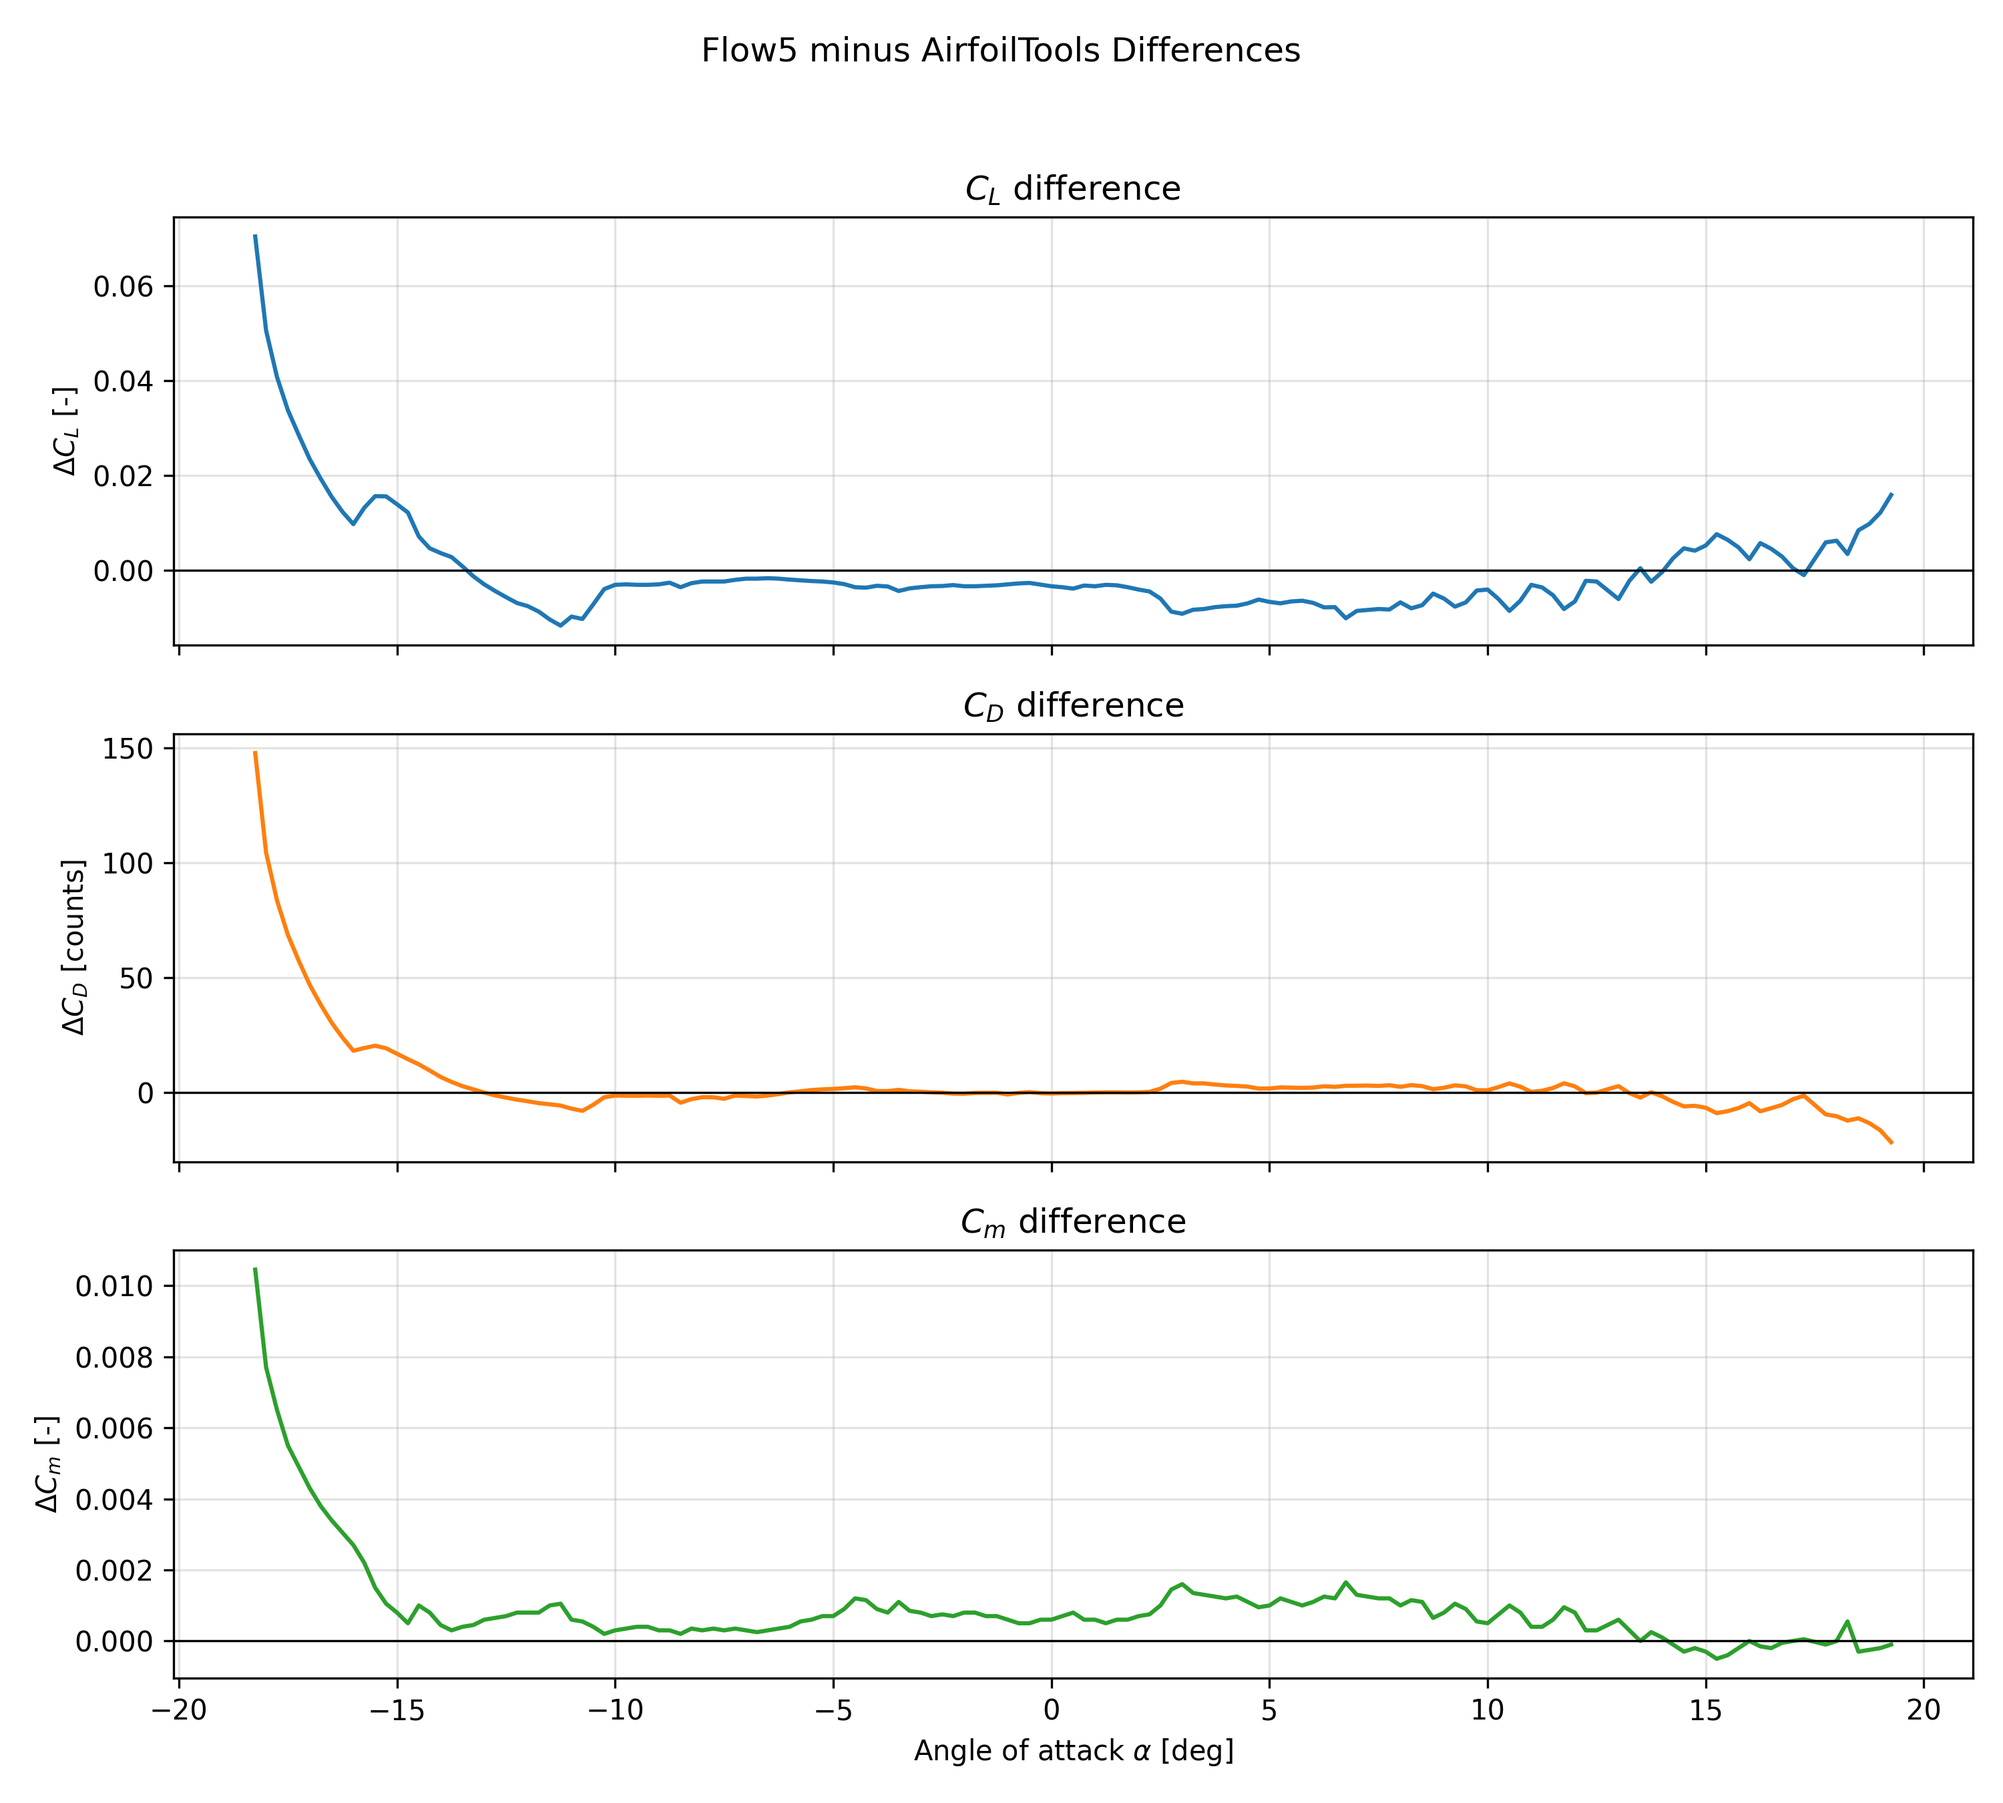
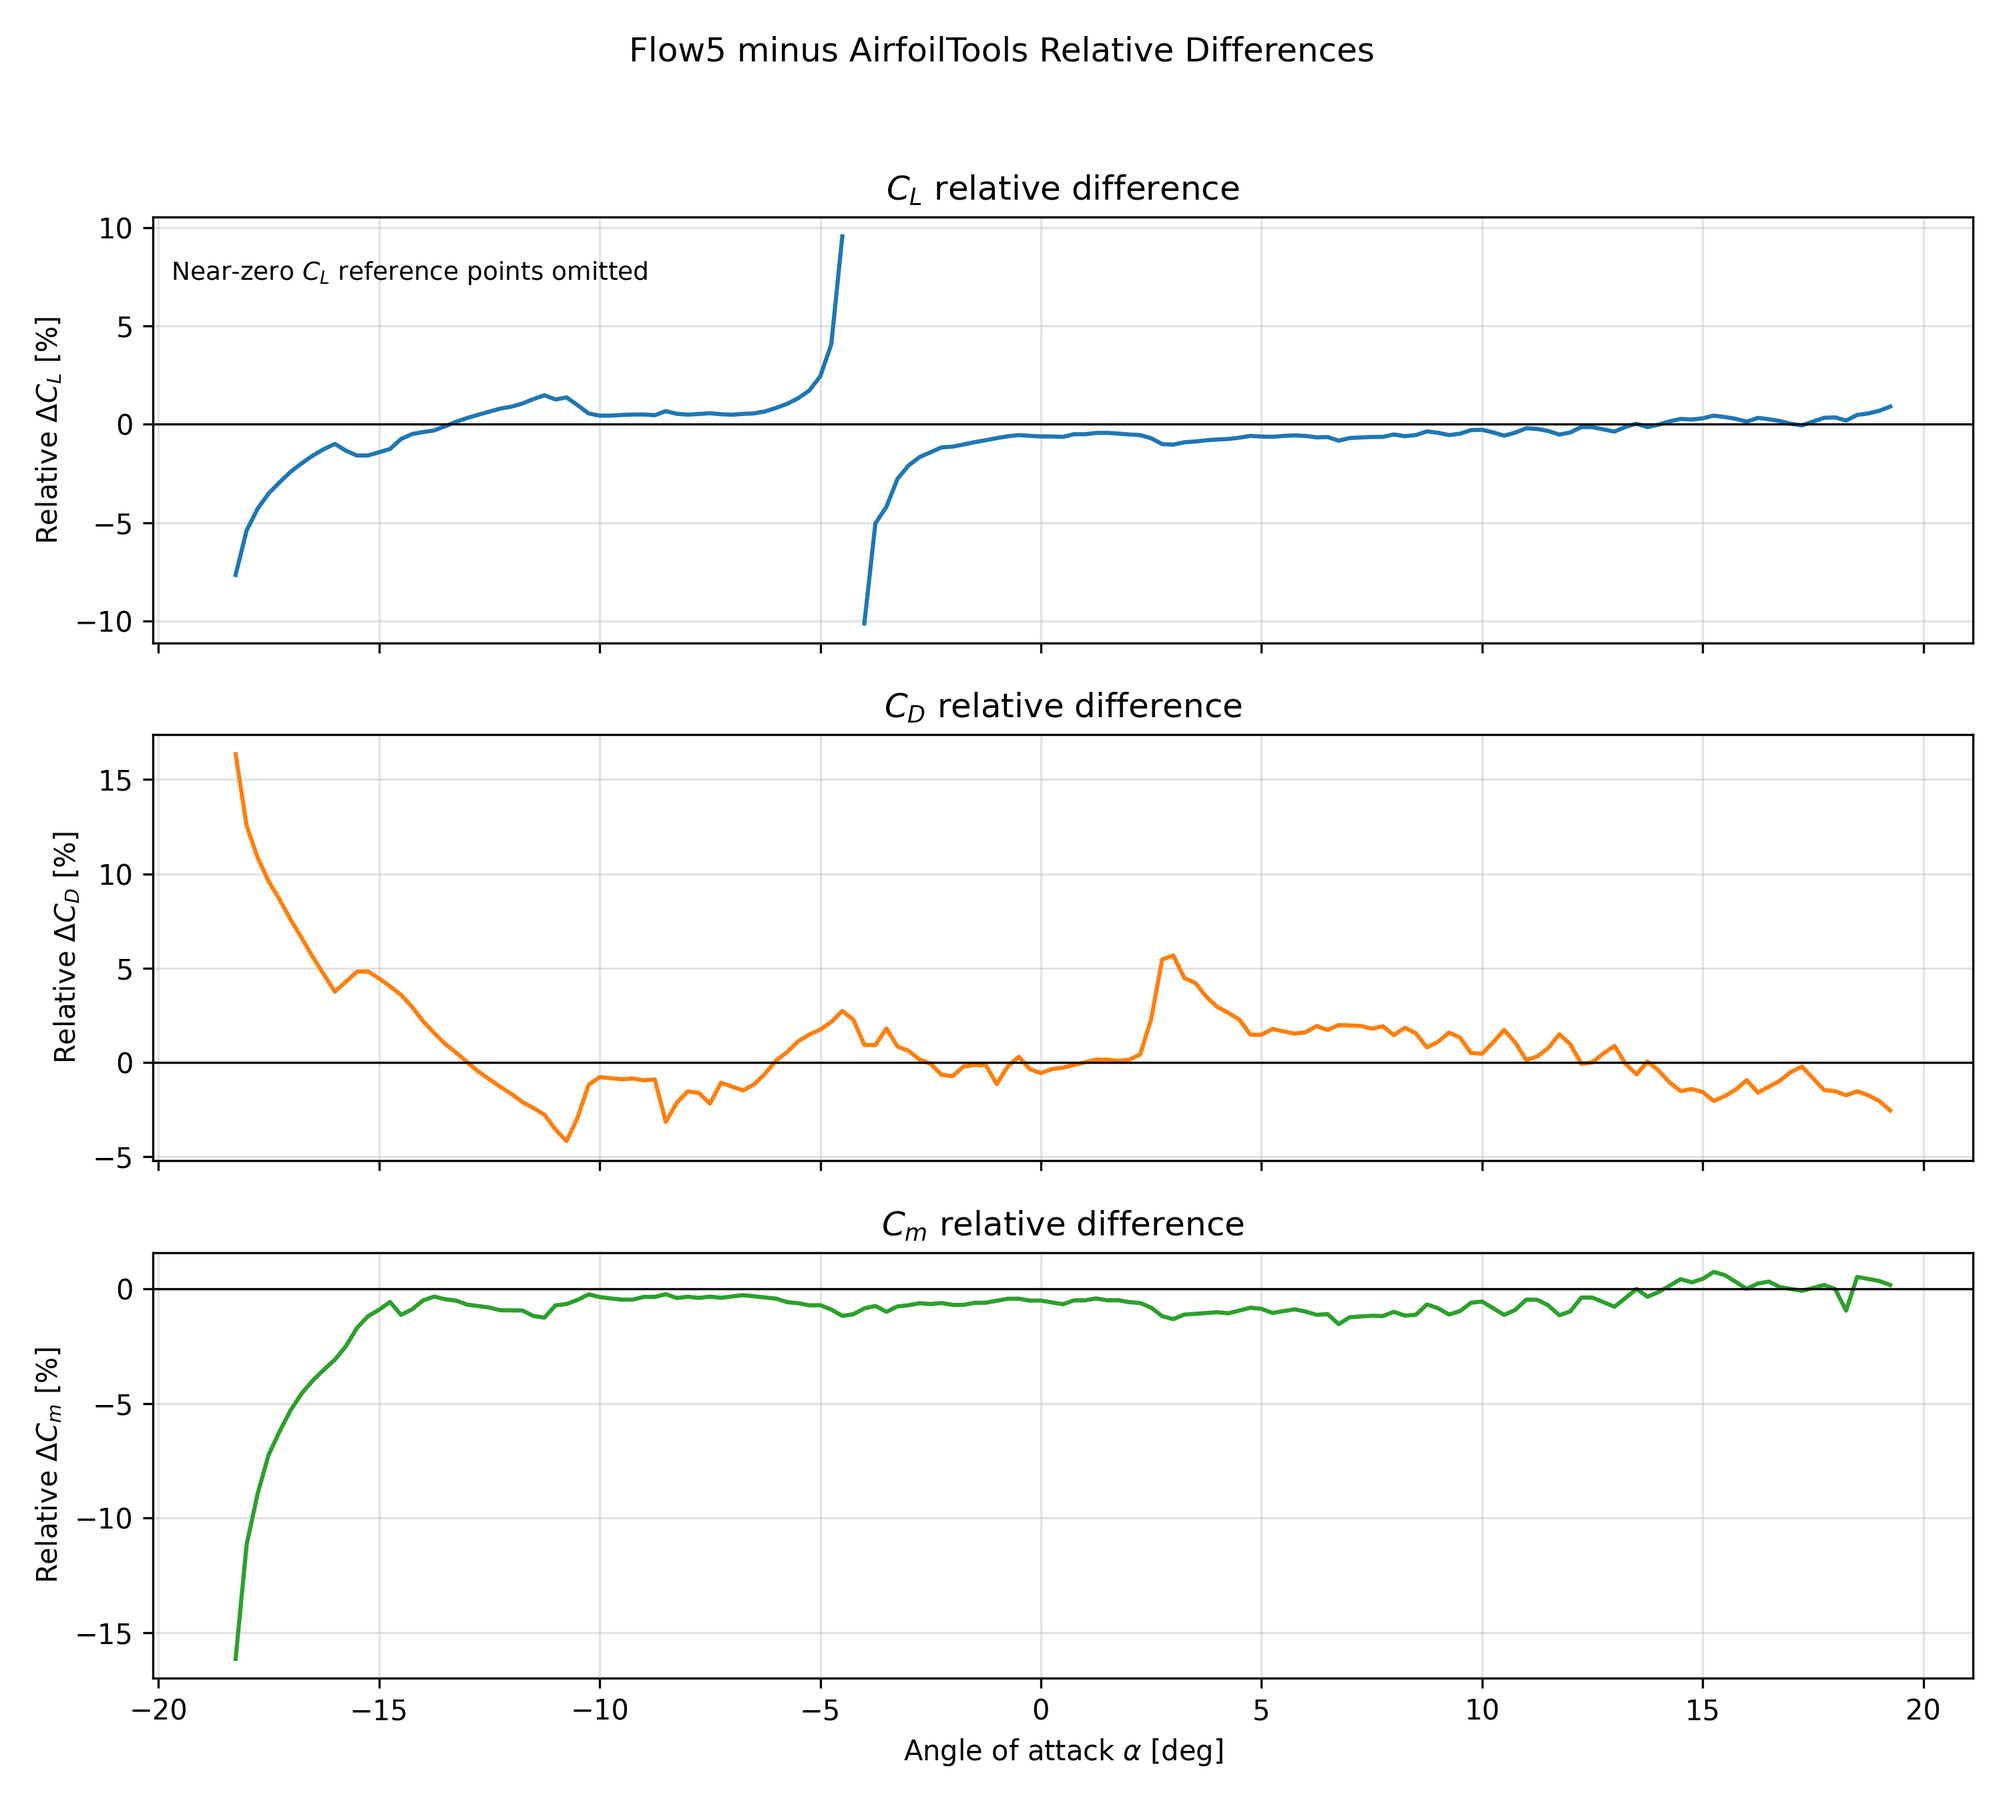
Plot relative percent differences in airfoil comparisons
Compute and plot relative percent differences instead of absolute differences for airfoil validation. Added _relative_difference_percent helper to return (candidate - reference)/reference*100 with a min_reference_abs guard to avoid dividing by near-zero values. plot_differences now uses this helper for CL, CD, and Cm (CL uses min_reference_abs=0.02), updates axis labels and the figure title, and adds a note indicating near-zero CL reference points were omitted. Regenerated validation plot assets (PNG/PDFs).

diff --git a/final_characteristics/aerodynamics/airfoil_characteristics.py b/final_characteristics/aerodynamics/airfoil_characteristics.py
@@ -618,6 +618,18 @@ def plot_overlays(reference: PolarData, candidate: PolarData, output_dir: Path) 
     return [png_path, pdf_path]
 
 
+def _relative_difference_percent(
+    reference_values: np.ndarray,
+    candidate_values: np.ndarray,
+    min_reference_abs: float = 1e-8,
+) -> np.ndarray:
+    difference = candidate_values - reference_values
+    valid = np.abs(reference_values) >= min_reference_abs
+    percent = np.full_like(reference_values, math.nan, dtype=float)
+    percent[valid] = difference[valid] / reference_values[valid] * 100.0
+    return percent
+
+
 def plot_differences(
     reference: PolarData,
     candidate: PolarData,
@@ -626,29 +638,50 @@ def plot_differences(
 ) -> list[Path]:
     alpha_mask = (reference.alpha >= overlap[0]) & (reference.alpha <= overlap[1])
     alpha = reference.alpha[alpha_mask]
-    delta_cl = _interp(candidate, "CL", alpha) - reference.values("CL")[alpha_mask]
-    delta_cd_counts = (_interp(candidate, "CD", alpha) - reference.values("CD")[alpha_mask]) * 10000.0
-    delta_cm = _interp(candidate, "Cm", alpha) - reference.values("Cm")[alpha_mask]
+    reference_cl = reference.values("CL")[alpha_mask]
+    reference_cd = reference.values("CD")[alpha_mask]
+    reference_cm = reference.values("Cm")[alpha_mask]
+    delta_cl_percent = _relative_difference_percent(
+        reference_cl,
+        _interp(candidate, "CL", alpha),
+        min_reference_abs=0.02,
+    )
+    delta_cd_percent = _relative_difference_percent(
+        reference_cd,
+        _interp(candidate, "CD", alpha),
+    )
+    delta_cm_percent = _relative_difference_percent(
+        reference_cm,
+        _interp(candidate, "Cm", alpha),
+    )
 
     figure, axes = plt.subplots(3, 1, figsize=(10, 9), sharex=True)
-    axes[0].plot(alpha, delta_cl, color="tab:blue")
+    axes[0].plot(alpha, delta_cl_percent, color="tab:blue")
     axes[0].axhline(0.0, color="black", linewidth=0.8)
-    _setup_axis(axes[0], "", r"$\Delta C_L$ [-]", r"$C_L$ difference")
+    _setup_axis(axes[0], "", r"Relative $\Delta C_L$ [%]", r"$C_L$ relative difference")
+    axes[0].text(
+        0.01,
+        0.90,
+        r"Near-zero $C_L$ reference points omitted",
+        transform=axes[0].transAxes,
+        fontsize=9,
+        va="top",
+    )
 
-    axes[1].plot(alpha, delta_cd_counts, color="tab:orange")
+    axes[1].plot(alpha, delta_cd_percent, color="tab:orange")
     axes[1].axhline(0.0, color="black", linewidth=0.8)
-    _setup_axis(axes[1], "", r"$\Delta C_D$ [counts]", r"$C_D$ difference")
+    _setup_axis(axes[1], "", r"Relative $\Delta C_D$ [%]", r"$C_D$ relative difference")
 
-    axes[2].plot(alpha, delta_cm, color="tab:green")
+    axes[2].plot(alpha, delta_cm_percent, color="tab:green")
     axes[2].axhline(0.0, color="black", linewidth=0.8)
     _setup_axis(
         axes[2],
         r"Angle of attack $\alpha$ [deg]",
-        r"$\Delta C_m$ [-]",
-        r"$C_m$ difference",
+        r"Relative $\Delta C_m$ [%]",
+        r"$C_m$ relative difference",
     )
 
-    figure.suptitle("Flow5 minus AirfoilTools Differences")
+    figure.suptitle("Flow5 minus AirfoilTools Relative Differences")
     figure.tight_layout(rect=(0.0, 0.0, 1.0, 0.96))
 
     png_path = output_dir / "airfoil_validation_differences.png"
